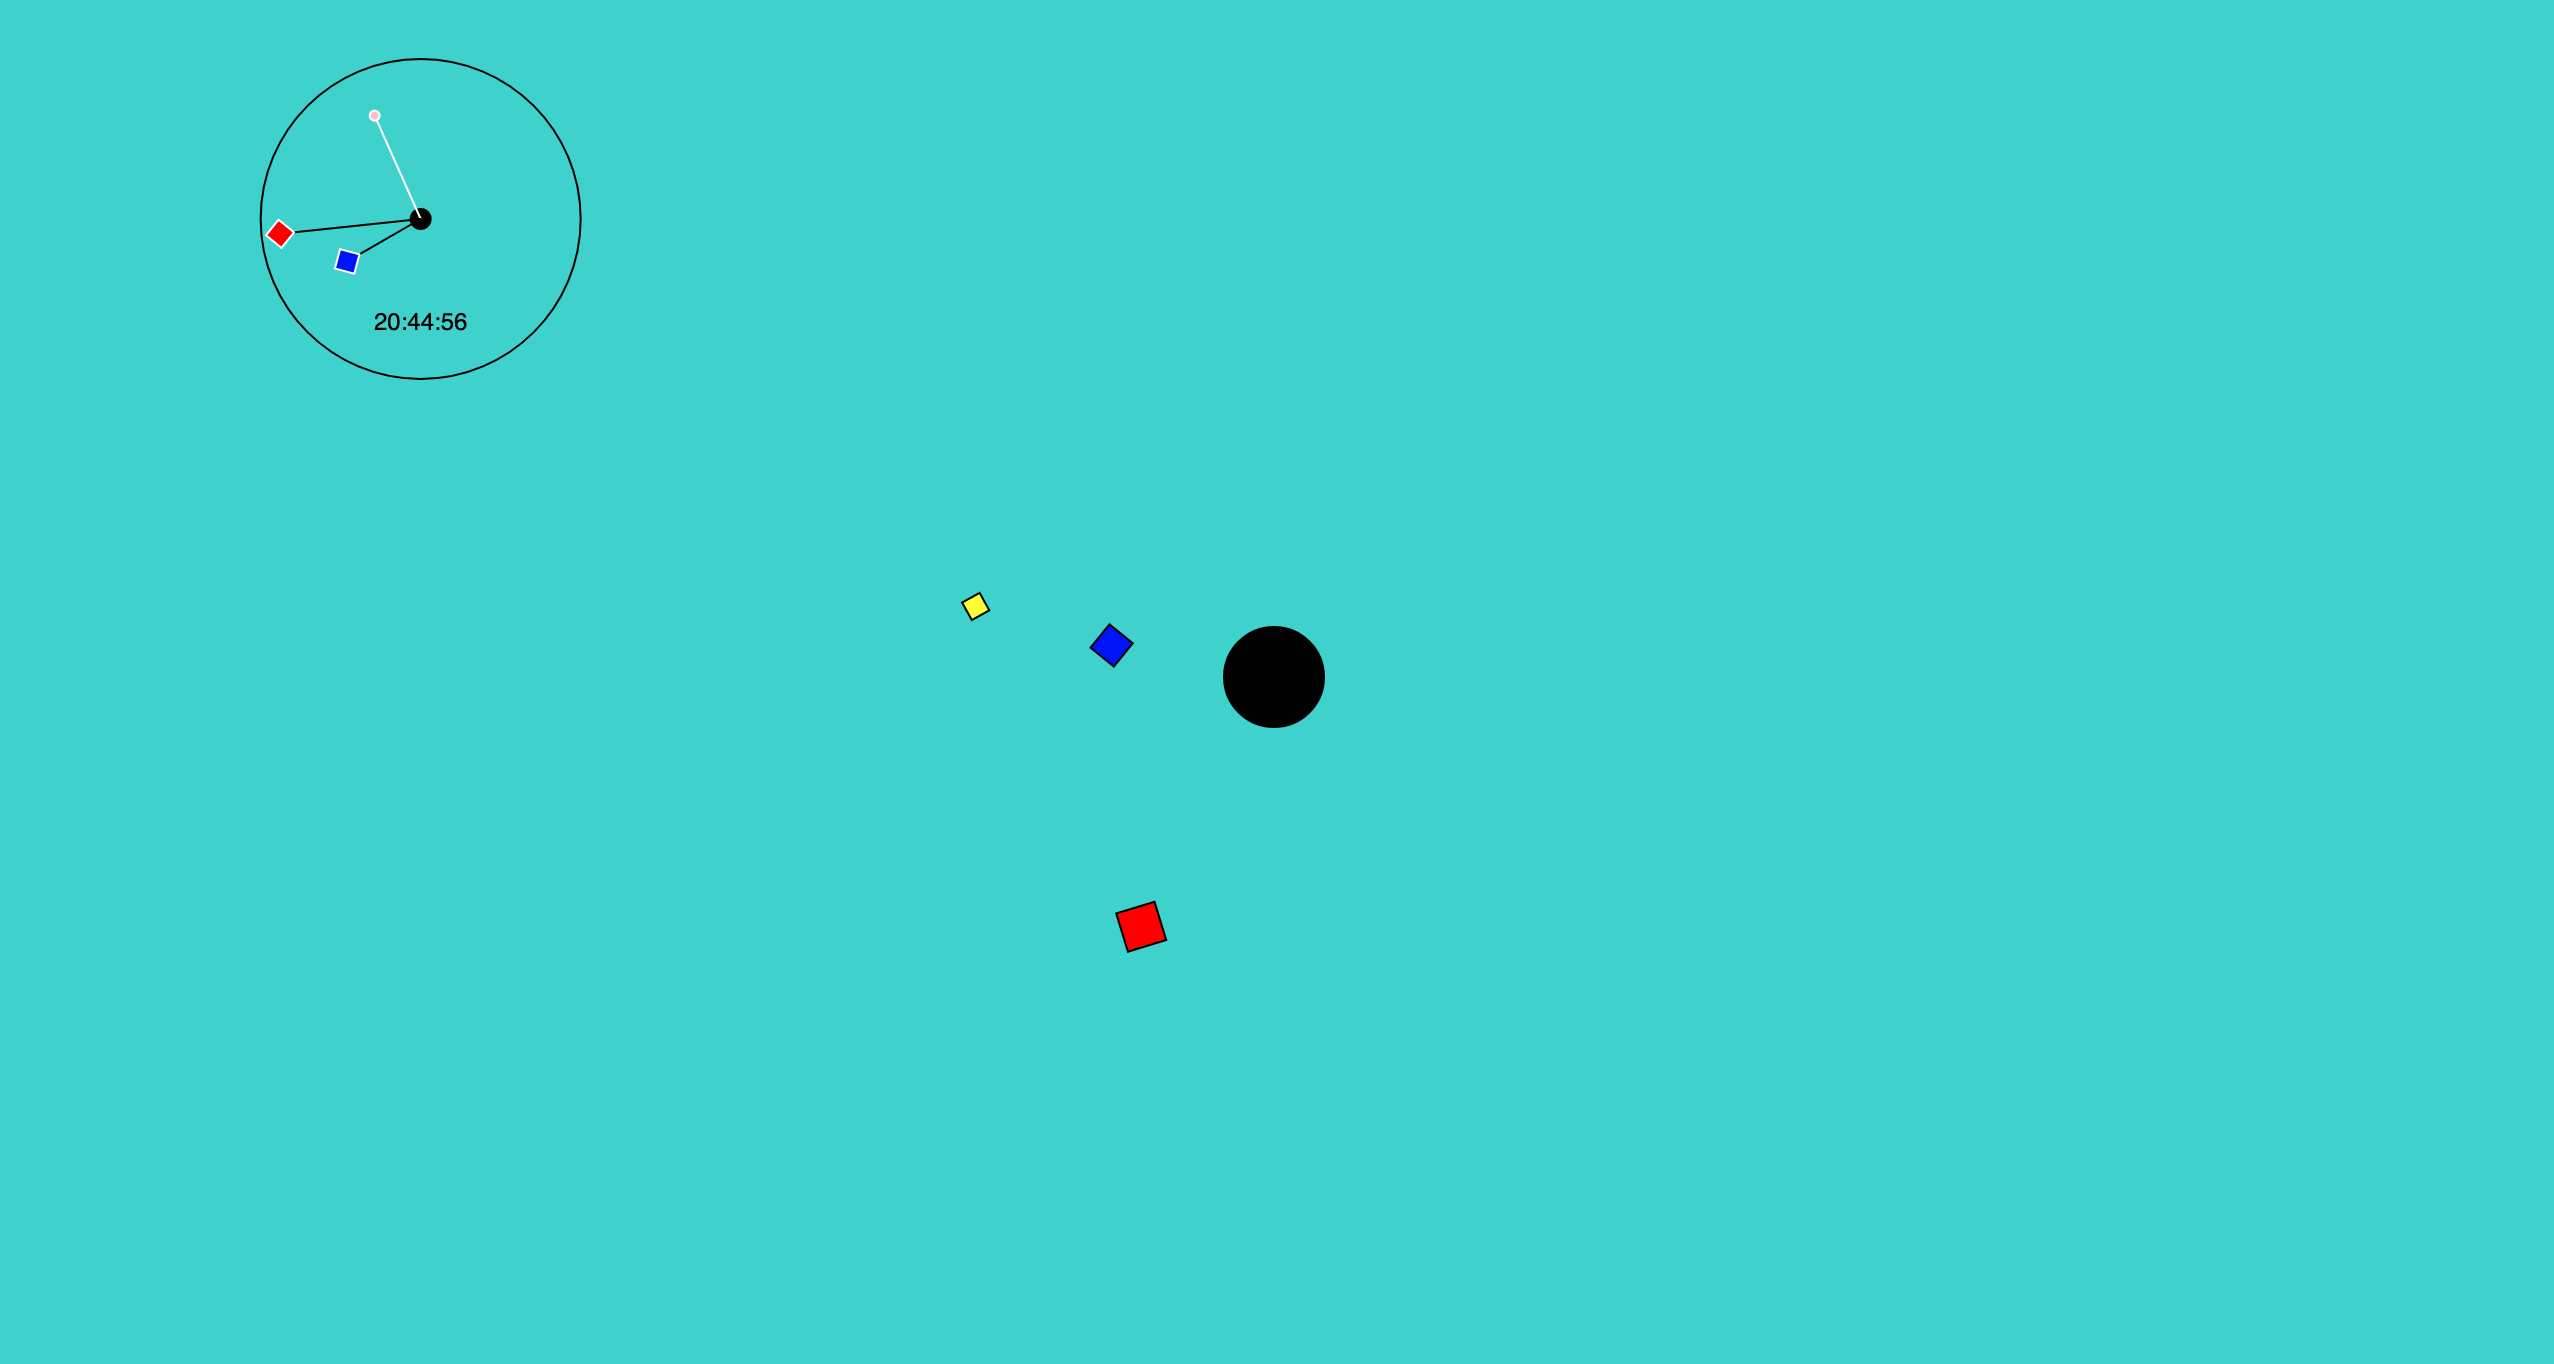
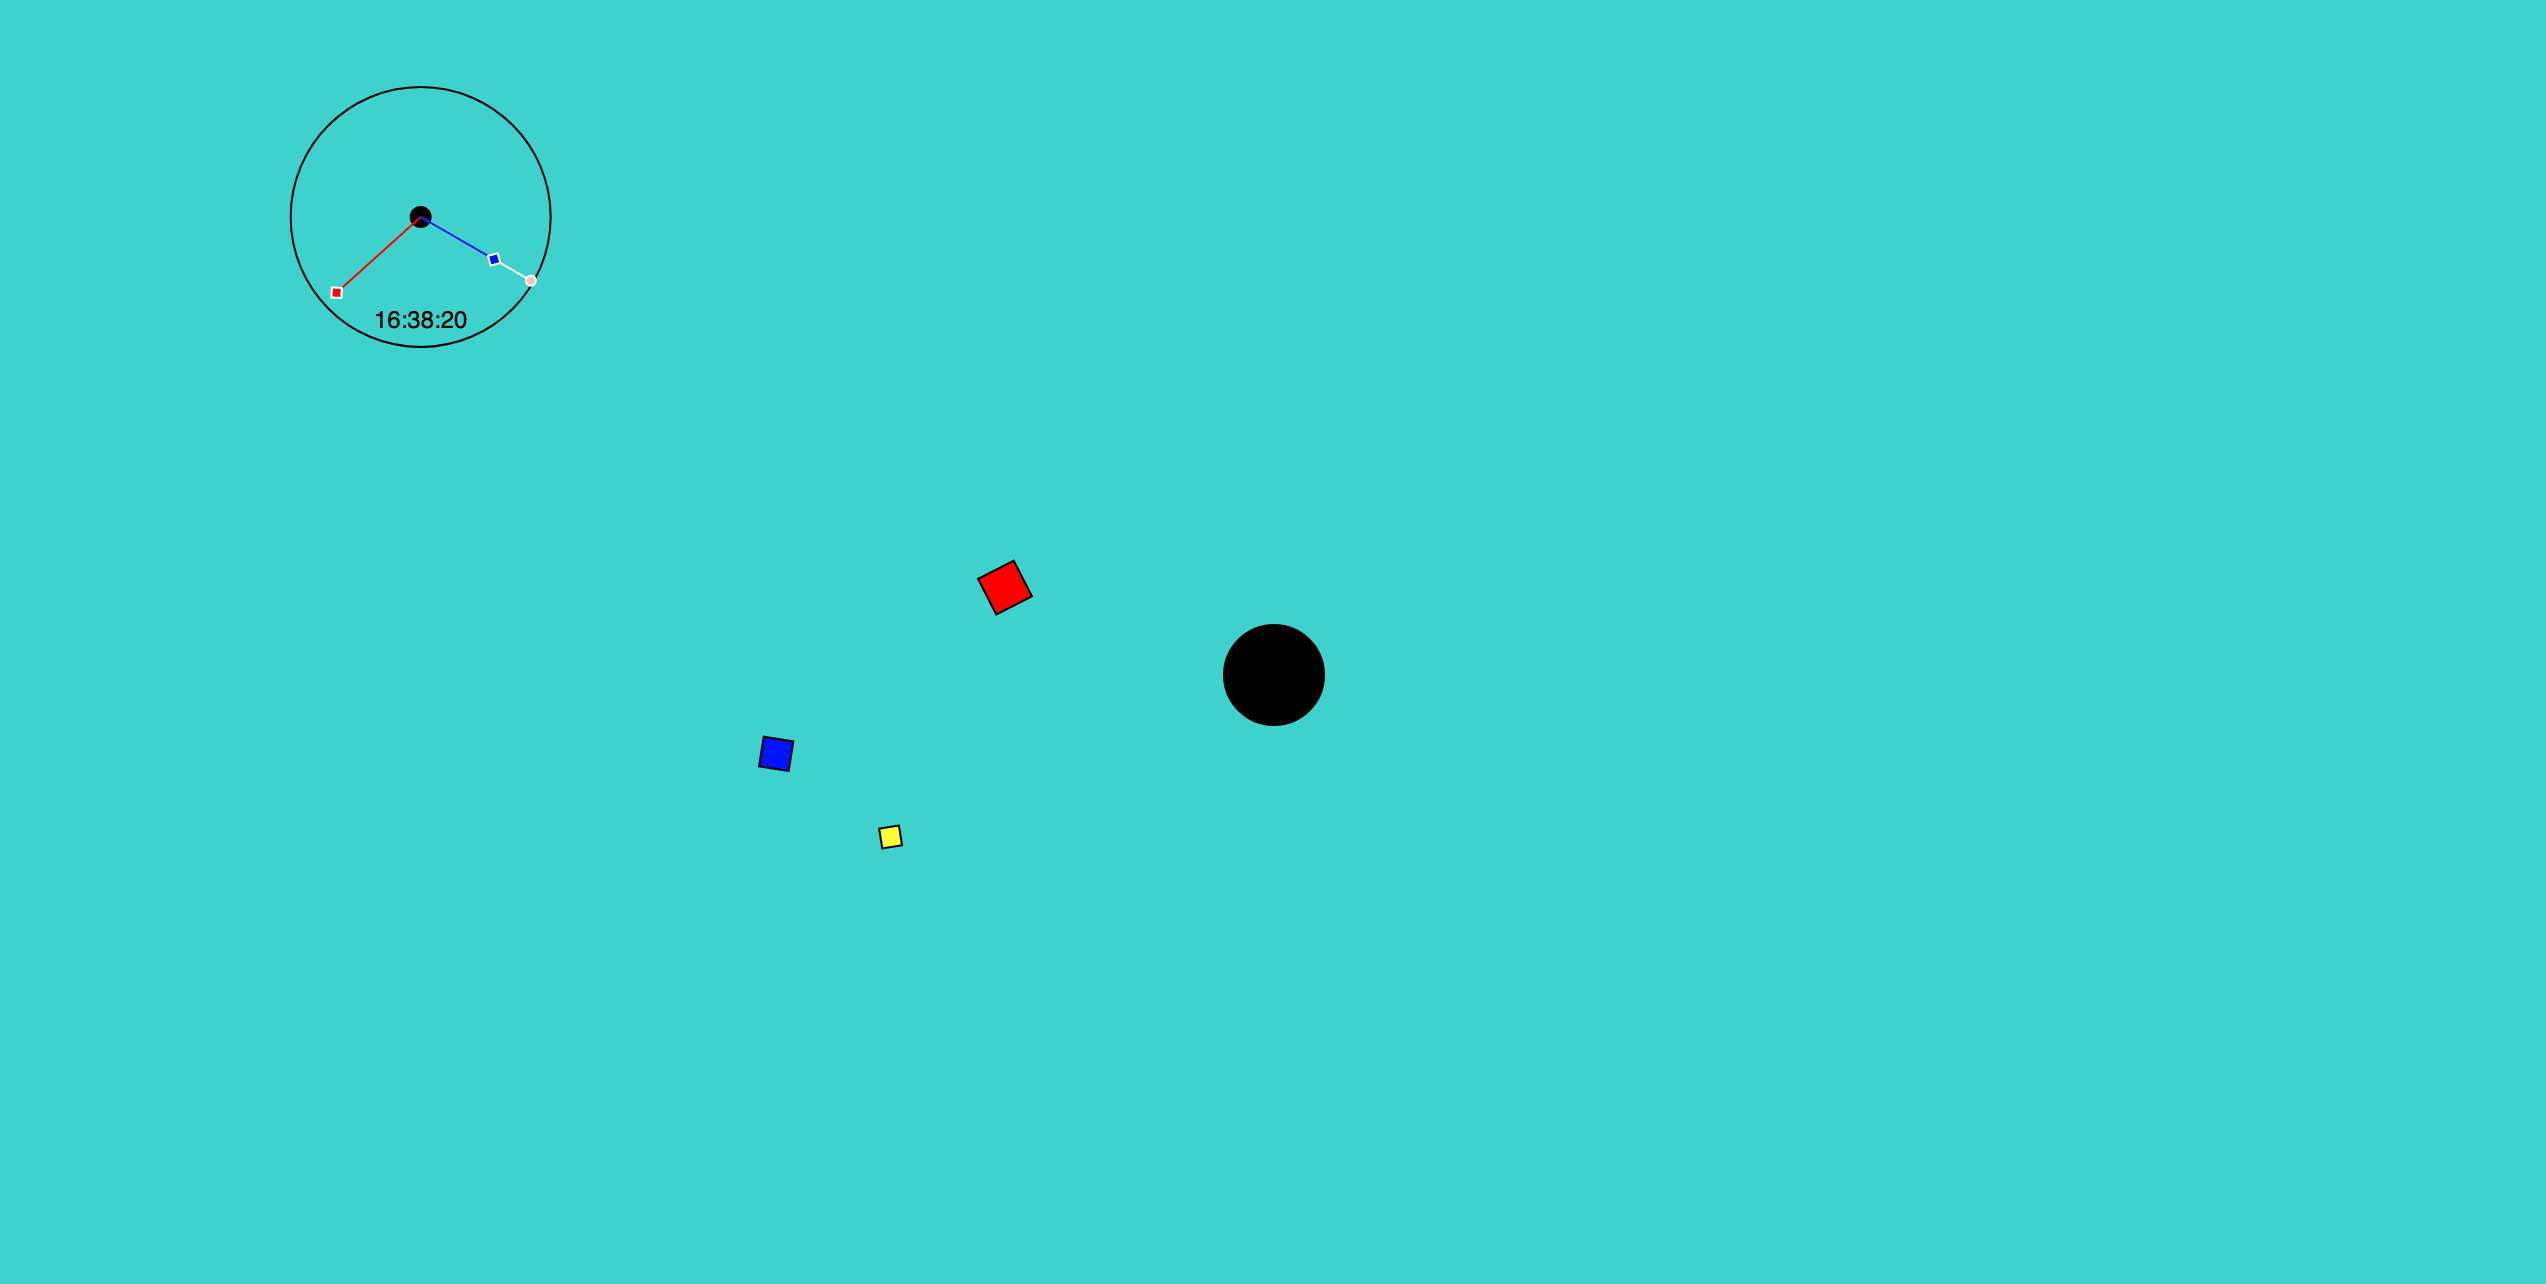
chore: Modify sketch.js and sketch_22.js

diff --git a/sketch.js b/sketch.js
@@ -2,23 +2,65 @@
 
 function setup() {
     createCanvas(windowWidth, windowHeight);
-    background('MediumTurquoise');
+    background('LightSeaGreen');
     strokeWeight(2);
     textAlign(CENTER);
+    angleMode(DEGREES);
+    rectMode(CENTER);
 }
 
 function draw() {
-    if(frameCount % 100 == 0) background('MediumTurquoise');
+    push();
+    if (frameCount % 180 == 0) background('LightSeaGreen');
     spreadSpot(random(0, windowWidth), random(0, windowHeight));
     showText();
+    pop();
+
+    push();
+    translate(windowWidth / 6, windowHeight / 6);
+    noFill();
+    stroke('Cyan');
+    ellipse(0, 0, 130, 130);
+    fill('Black');
+    ellipse(0, 0, 10, 10);
+    rotate(map(second(), 0, 60, 0, 360) + 180 + 45);
+    fill('Pink');
+    stroke('White');
+    line(0, 0, 45, 45);
+    ellipse(45, 45, 5, 5);
+    pop();
+
+    push();
+    translate(windowWidth / 6, windowHeight / 6);
+    rotate(map(minute(), 0, 60, 0, 360) + 180 + 45);
+    fill('SteelBlue');
+    stroke('SteelBlue');
+    line(0, 0, 40, 40);
+    stroke('White');
+    rect(40, 40, 5, 5);
+    pop();
+
+    push();
+    translate(windowWidth / 6, windowHeight / 6);
+    rotate(map(hour() % 12, 0, 12, 0, 360) + 180 + 45);
+    fill('Tomato');
+    stroke('Tomato');
+    line(0, 0, 30, 30);
+    stroke('White');
+    rect(30, 30, 5, 5);
+    pop();
+
+    fill('Purple');
+    textSize(20);
+    text(`${hour()}:${minute()}`, 210, 170);
 }
 
 function showText() {
     textSize(40);
-    fill(color('BLACK'));
+    fill('BLACK');
     text('Hello World and P5.js !', windowWidth / 2, windowHeight / 2);
     textSize(10);
-    fill(color('NAVY'));
+    fill('NAVY');
     text('Wayne Chang', windowWidth - 100, windowHeight - 50);
 }
 
@@ -26,7 +68,7 @@ function spreadSpot(x, y) {
     let spotNumber = int(random(100, 350));
     let spotRadius = random(2, 20);
     let diviation = 100;
-    
+
     noStroke();
 
     for (let i = 0; i < spotNumber; i++) {

diff --git a/sketch_22.js b/sketch_22.js
@@ -33,32 +33,34 @@ function draw() {
     push();
     translate(windowWidth / 6, windowHeight / 6);
     noFill();
-    ellipse(0, 0, 160, 160);
+    ellipse(0, 0, 130, 130);
     fill('Black');
     ellipse(0, 0, 10, 10);
     rotate(map(second(), 0, 60, 0, 360) + 180 + 45);
     fill('Pink');
     stroke('White');
-    line(0, 0, 40, 40);
-    ellipse(40, 40, 5, 5);
+    line(0, 0, 45, 45);
+    ellipse(45, 45, 5, 5);
     pop();
 
     push();
     translate(windowWidth / 6, windowHeight / 6);
     rotate(map(minute(), 0, 60, 0, 360) + 180 + 45);
     fill('Red');
-    line(0, 0, 50, 50);
+    stroke('Red');
+    line(0, 0, 40, 40);
     stroke('White');
-    rect(50, 50, 10, 10);
+    rect(40, 40, 5, 5);
     pop();
 
     push();
     translate(windowWidth / 6, windowHeight / 6);
     rotate(map(hour() % 12, 0, 12, 0, 360) + 180 + 45);
     fill('Blue');
+    stroke('Blue');
     line(0, 0, 30, 30);
     stroke('White');
-    rect(30, 30, 10, 10);
+    rect(30, 30, 5, 5);
     pop();
 
     text(`${hour()}:${minute()}:${second()}`, 190, 170);
